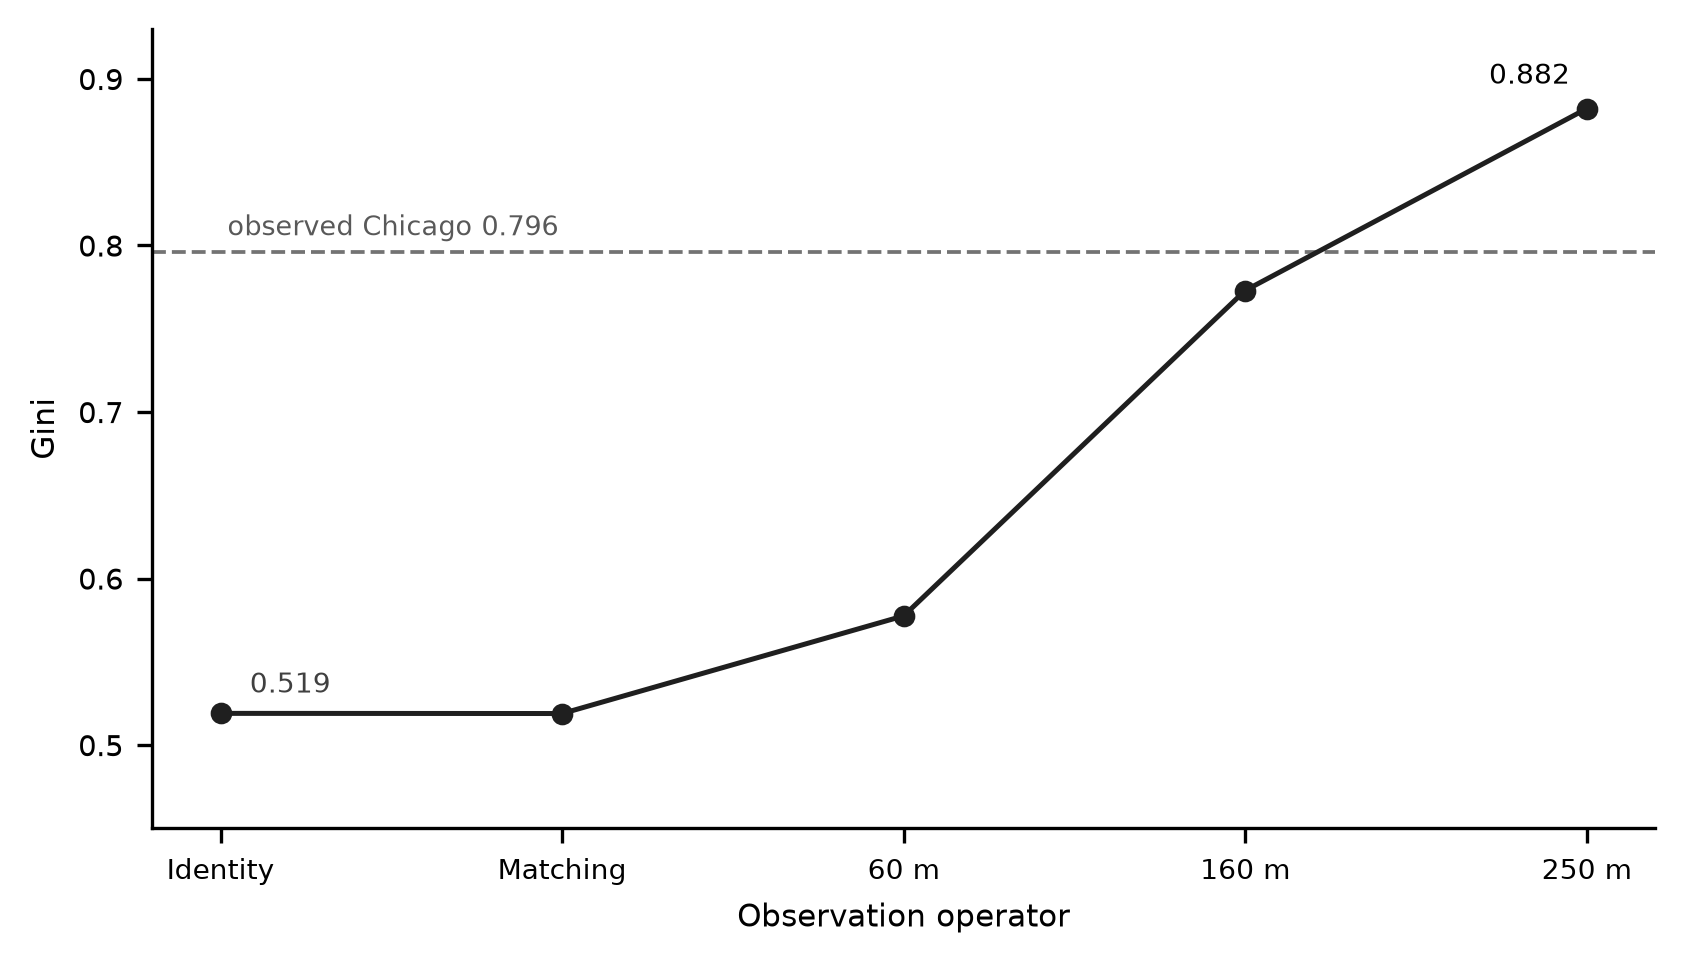
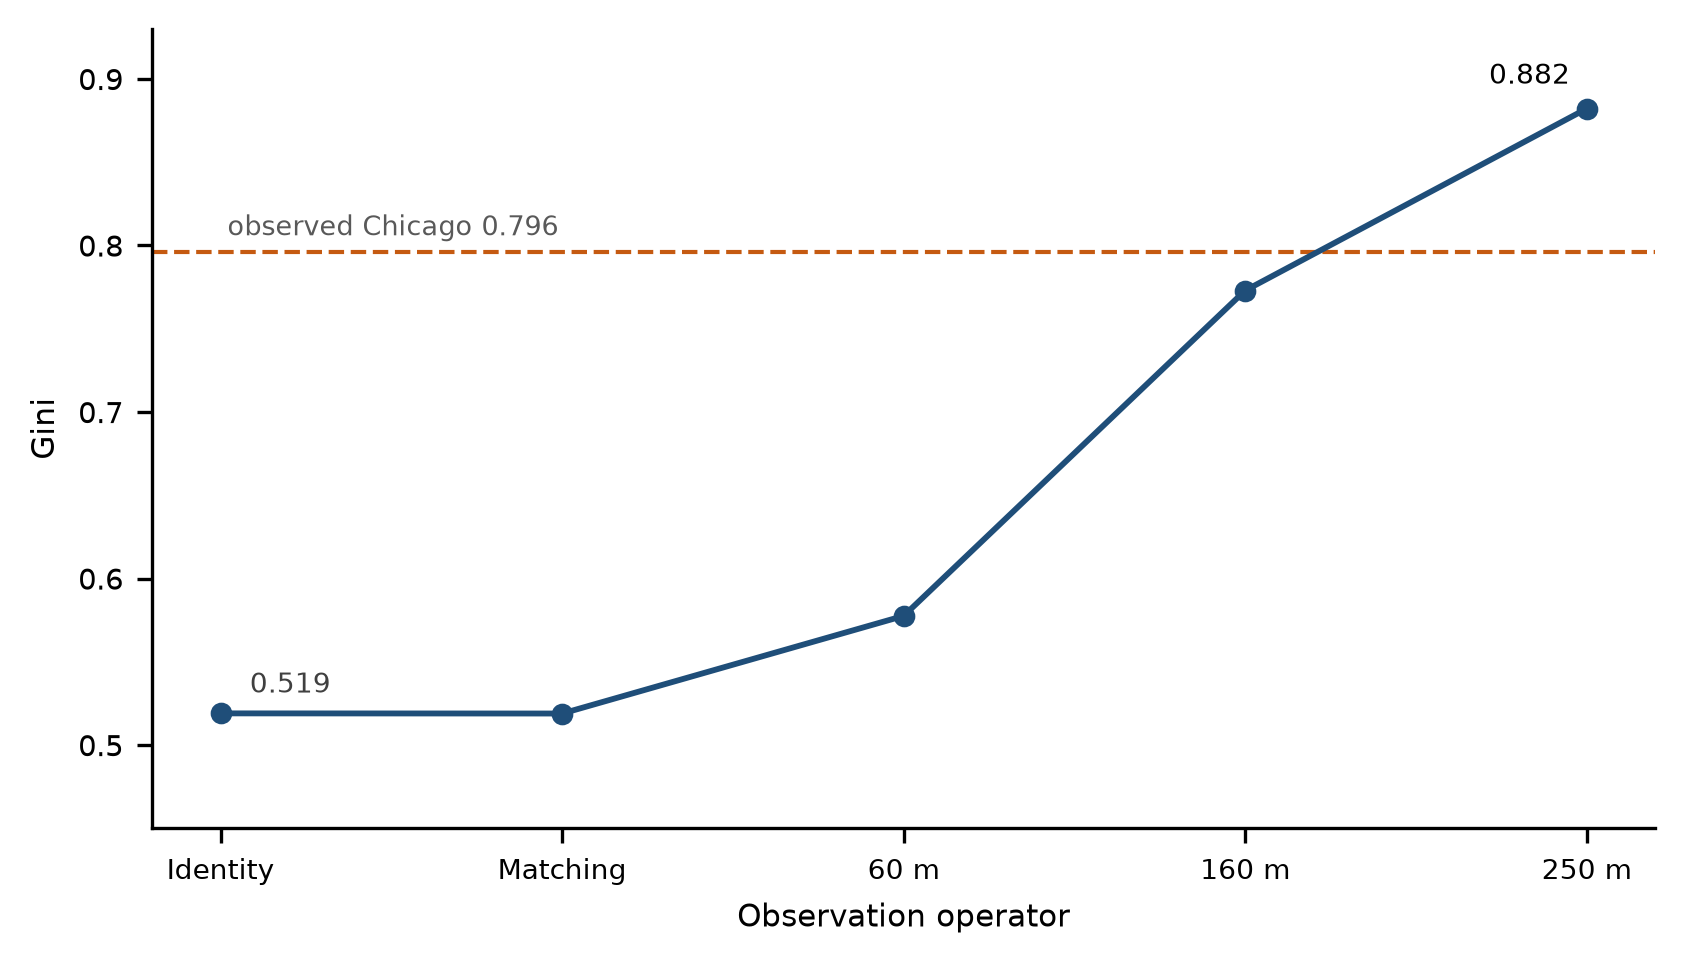
figures: recolour and rebuild, with a power-vs-heterogeneity panel
Colour now carries the series, with line style and marker repeating it so the figures stay
readable in greyscale. Figure 2 panel (b) replaces the two saturated power curves (both at
1.000 for every operator) with the power scan over risk strength, where the detection
boundary is actually visible, and adds the direct baseline to show it cannot register the
change.

diff --git a/code/11_make_figures.py b/code/11_make_figures.py
@@ -1,14 +1,14 @@
 """Draw the four figures in the manuscript.
 
 Figure 1  fig1_mechanism.png        what coarsening does to the number when risk is constant
-Figure 2  fig2_calibration.png      rejection rates at equal risk, and power
+Figure 2  fig2_calibration.png      size of the test, and where detection begins
 Figure 3  fig3_fifty_x.png          the same failure in the policy statistic
 Figure 4  fig4_reference_set.png    where the London answer turns over
 
 Part of the reproducibility package for "Crime concentration after spatial publication:
 aligning random baselines with observation processes". Reads outputs/ and writes figures/.
-Style choices are for print: line style and marker carry series identity, so the figures survive
-greyscale reproduction, and the type is sized for the journal's text width.
+Colour carries the series and so do line style and marker, so the figures remain readable in
+greyscale reproduction.
 
 """
 from pathlib import Path
@@ -31,6 +31,11 @@ plt.rcParams.update({
     "axes.spines.top": False, "axes.spines.right": False,
     "figure.dpi": 300, "savefig.dpi": 300, "savefig.bbox": "tight",
 })
+
+
+# colour plus shape: every series is identifiable in greyscale print as well as on screen
+COL = {"direct": "#1f4e79", "matched": "#c55a11", "chi": "#1f4e79", "lon": "#c55a11",
+       "ref": "#7f7f7f", "alt": "#2e7d32"}
 
 OP5 = [("identity", "Identity"), ("match", "Matching"), ("60", "60 m"),
        ("160", "160 m"), ("250", "250 m")]
@@ -60,10 +65,10 @@ def figure_one():
 
     fig, ax = plt.subplots(figsize=(5.5, 3.1), layout="constrained")
     x = list(range(n))
-    ax.axhline(observed, color="0.45", lw=0.9, ls="--")
+    ax.axhline(observed, color=COL["matched"], lw=1.0, ls="--")
     ax.annotate("observed Chicago 0.796", (0.02, observed), textcoords="offset points",
                 xytext=(0, 4), fontsize=6.6, color="0.35", ha="left")
-    ax.plot(x, gini, marker="o", ms=4.2, lw=1.2, color="0.12")
+    ax.plot(x, gini, marker="o", ms=4.2, lw=1.4, color=COL["direct"])
     ax.annotate("0.519", (0, gini[0]), textcoords="offset points",
                 xytext=(7, 5), fontsize=6.8, color="0.25")
     ax.annotate("0.882", (n - 1, gini[-1]), textcoords="offset points",
@@ -80,7 +85,7 @@ def figure_one():
 
 
 def figure_two():
-    """Equal-risk size against the operator: the cliff, and the reason for it."""
+    """Equal-risk size on the left, detection under two risk fields on the right."""
     rows = [r for r in read("calibration_summary.csv") if float(r["sigma"]) == 0]
     idx = {m: i for i, (m, _) in enumerate(OP5)}
     n = len(OP5)
@@ -95,41 +100,51 @@ def figure_two():
             lo[i], hi[i] = float(r["low"]), float(r["high"])
             gini[i] = float(r["mean_gini"])
 
-    fig, (ax, ax2) = plt.subplots(1, 2, figsize=(5.5, 2.6), layout="constrained")
+    fig, (ax, ax2) = plt.subplots(1, 2, figsize=(5.5, 2.7), layout="constrained")
     x = list(range(n))
-
-    ax.axhline(0.05, color="0.55", lw=0.8, ls=":", zorder=1)
-    ax.text(-0.42, 0.075, "nominal 0.05", fontsize=6.8, color="0.35", ha="left")
-    ax.plot(x, length, marker="s", ms=4.2, lw=1.1, color="0.12", label="Direct length null")
+    ax.axhline(0.05, color=COL["ref"], lw=0.8, ls=":", zorder=1)
+    ax.text(-0.42, 0.075, "nominal 0.05", fontsize=6.6, color="0.35", ha="left")
+    ax.plot(x, length, marker="s", ms=4.2, lw=1.2, color=COL["direct"],
+            label="Direct length null")
     ax.errorbar(x, oper, yerr=[[o - a for o, a in zip(oper, lo)],
                                [b - o for o, b in zip(oper, hi)]],
-                marker="o", ms=4.2, lw=1.1, ls="--", color="0.55", capsize=1.8,
+                marker="o", ms=4.2, lw=1.2, ls="--", color=COL["matched"], capsize=1.8,
                 label="Operator-matched null")
     for i, v in enumerate(length):
         if v > 0.5:
             ax.annotate("1.00", (i, v), textcoords="offset points", xytext=(0, 7),
-                        ha="center", fontsize=6.8)
+                        ha="center", fontsize=6.6)
     ax.set_xticks(x)
     ax.set_xticklabels([lab for _, lab in OP5])
     ax.set_xlim(-0.45, n - 0.3)
     ax.set_ylim(-0.04, 1.12)
-    ax.set_ylabel("Rejection rate at equal risk")
+    ax.set_ylabel("Rejection rate under equal risk")
     ax.set_title("(a) Size of the test", loc="left")
     ax.legend(loc="center right", frameon=False, handlelength=2.2)
 
-    ax2.plot(x, gini, marker="^", ms=4.2, lw=1.1, color="0.25")
-    ax2.set_xticks(x)
-    ax2.set_xticklabels([lab for _, lab in OP5])
-    ax2.set_xlim(-0.45, n - 0.3)
-    ax2.set_ylim(0.45, 0.95)
-    ax2.set_ylabel("Mean Gini of equal-risk data")
-    ax2.set_title("(b) Why it happens", loc="left")
-    ax2.annotate("%.3f" % gini[0], (0, gini[0]), textcoords="offset points",
-                 xytext=(0, 7), ha="center", fontsize=6.8)
-    ax2.annotate("%.3f" % gini[-1], (n - 1, gini[-1]), textcoords="offset points",
-                 xytext=(-6, 4), ha="right", fontsize=6.8)
+    # power against risk strength, where the detection boundary actually lives; the
+    # direct test is saturated at every strength and is drawn to make that visible
+    scan = read("extensions_power_origin.csv")
+    sigmas = sorted({float(r["sigma"]) for r in scan if r["experiment"] == "power"})
+    series = (("160", "length", COL["direct"], ":", "s", "Direct length null, 160 m"),
+              ("60", "operator", COL["matched"], "-", "o", "Matched, 60 m"),
+              ("160", "operator", "#2e7d32", "--", "^", "Matched, 160 m"))
+    for mode, method, colour, ls, mk, lab in series:
+        ys = []
+        for sg in sigmas:
+            v = [float(r["rejection"]) for r in scan
+                 if r["experiment"] == "power" and r["mode"] == mode
+                 and r["method"] == method and abs(float(r["sigma"]) - sg) < 1e-9]
+            ys.append(v[0] if v else float("nan"))
+        ax2.plot(sigmas, ys, marker=mk, ms=4.0, lw=1.2, ls=ls, color=colour, label=lab)
+    ax2.axhline(0.05, color=COL["ref"], lw=0.8, ls=":")
+    ax2.set_xlabel("Risk heterogeneity (log-SD)")
+    ax2.set_ylim(-0.04, 1.08)
+    ax2.set_ylabel("Rejection under alternatives")
+    ax2.set_title("(b) Where detection begins", loc="left")
+    ax2.legend(loc="lower right", frameon=False, handlelength=2.0, fontsize=6.2)
 
-    p = FIG / "fig2_size_by_operator.png"
+    p = FIG / "calibration.png"
     fig.savefig(p)
     plt.close(fig)
     print("  wrote", p.name)
@@ -156,8 +171,8 @@ def figure_three():
 
     fig, (ax, ax2) = plt.subplots(1, 2, figsize=(5.5, 2.7), layout="constrained")
     x = list(range(n))
-    styles = {"Chicago": dict(marker="o", ls="-", color="0.12"),
-              "London": dict(marker="s", ls="--", color="0.55")}
+    styles = {"Chicago": dict(marker="o", ls="-", color=COL["chi"]),
+              "London": dict(marker="s", ls="--", color=COL["lon"])}
 
     for network in ("Chicago", "London"):
         ax.plot(x, net[network][0], ms=4.2, lw=1.1, label=network, **styles[network])
@@ -200,7 +215,7 @@ def figure_four():
     fig, (ax, ax2) = plt.subplots(1, 2, figsize=(5.5, 2.7), layout="constrained")
     xs = [s / 1000 for s in size]
 
-    ax.step(xs, pval, where="post", lw=1.1, color="0.12", marker="o", ms=3.8)
+    ax.step(xs, pval, where="post", lw=1.2, color=COL["direct"], marker="o", ms=3.8)
     ax.set_xscale("log")
     ax.set_xlim(44, 260)
     ax.set_ylim(-0.05, 1.12)
@@ -219,9 +234,9 @@ def figure_four():
                 ha="center", fontsize=6.6, color="0.35")
     ax.set_title("(a) The answer turns over once", loc="left")
 
-    ax2.plot(xs, null, marker="^", ms=3.8, lw=1.1, color="0.3",
+    ax2.plot(xs, null, marker="^", ms=3.8, lw=1.2, color=COL["matched"],
              label="Null mean Gini")
-    ax2.axhline(observed, color="0.12", lw=1.0, ls="--", label="Observed 0.894")
+    ax2.axhline(observed, color=COL["direct"], lw=1.0, ls="--", label="Observed 0.894")
     ax2.set_xscale("log")
     ax2.set_xlim(44, 260)
     ax2.set_ylim(0.58, 0.94)

diff --git a/docs/reproduction.md b/docs/reproduction.md
@@ -35,4 +35,4 @@ in place.
 | 3 | `fig3_fifty_x.png` | `fifty_x_calibration.csv` |
 | 4 | `fig4_reference_set.png` | `reference_set_sweep.csv` |
 
-Figure 2 was produced by script 02 during the original analysis and is included as drawn.
+Figure 2 draws the size of the test in panel (a) and the power scan in panel (b), both from the files above; colour carries the series, and line style and marker repeat it so the figures survive greyscale reproduction.
